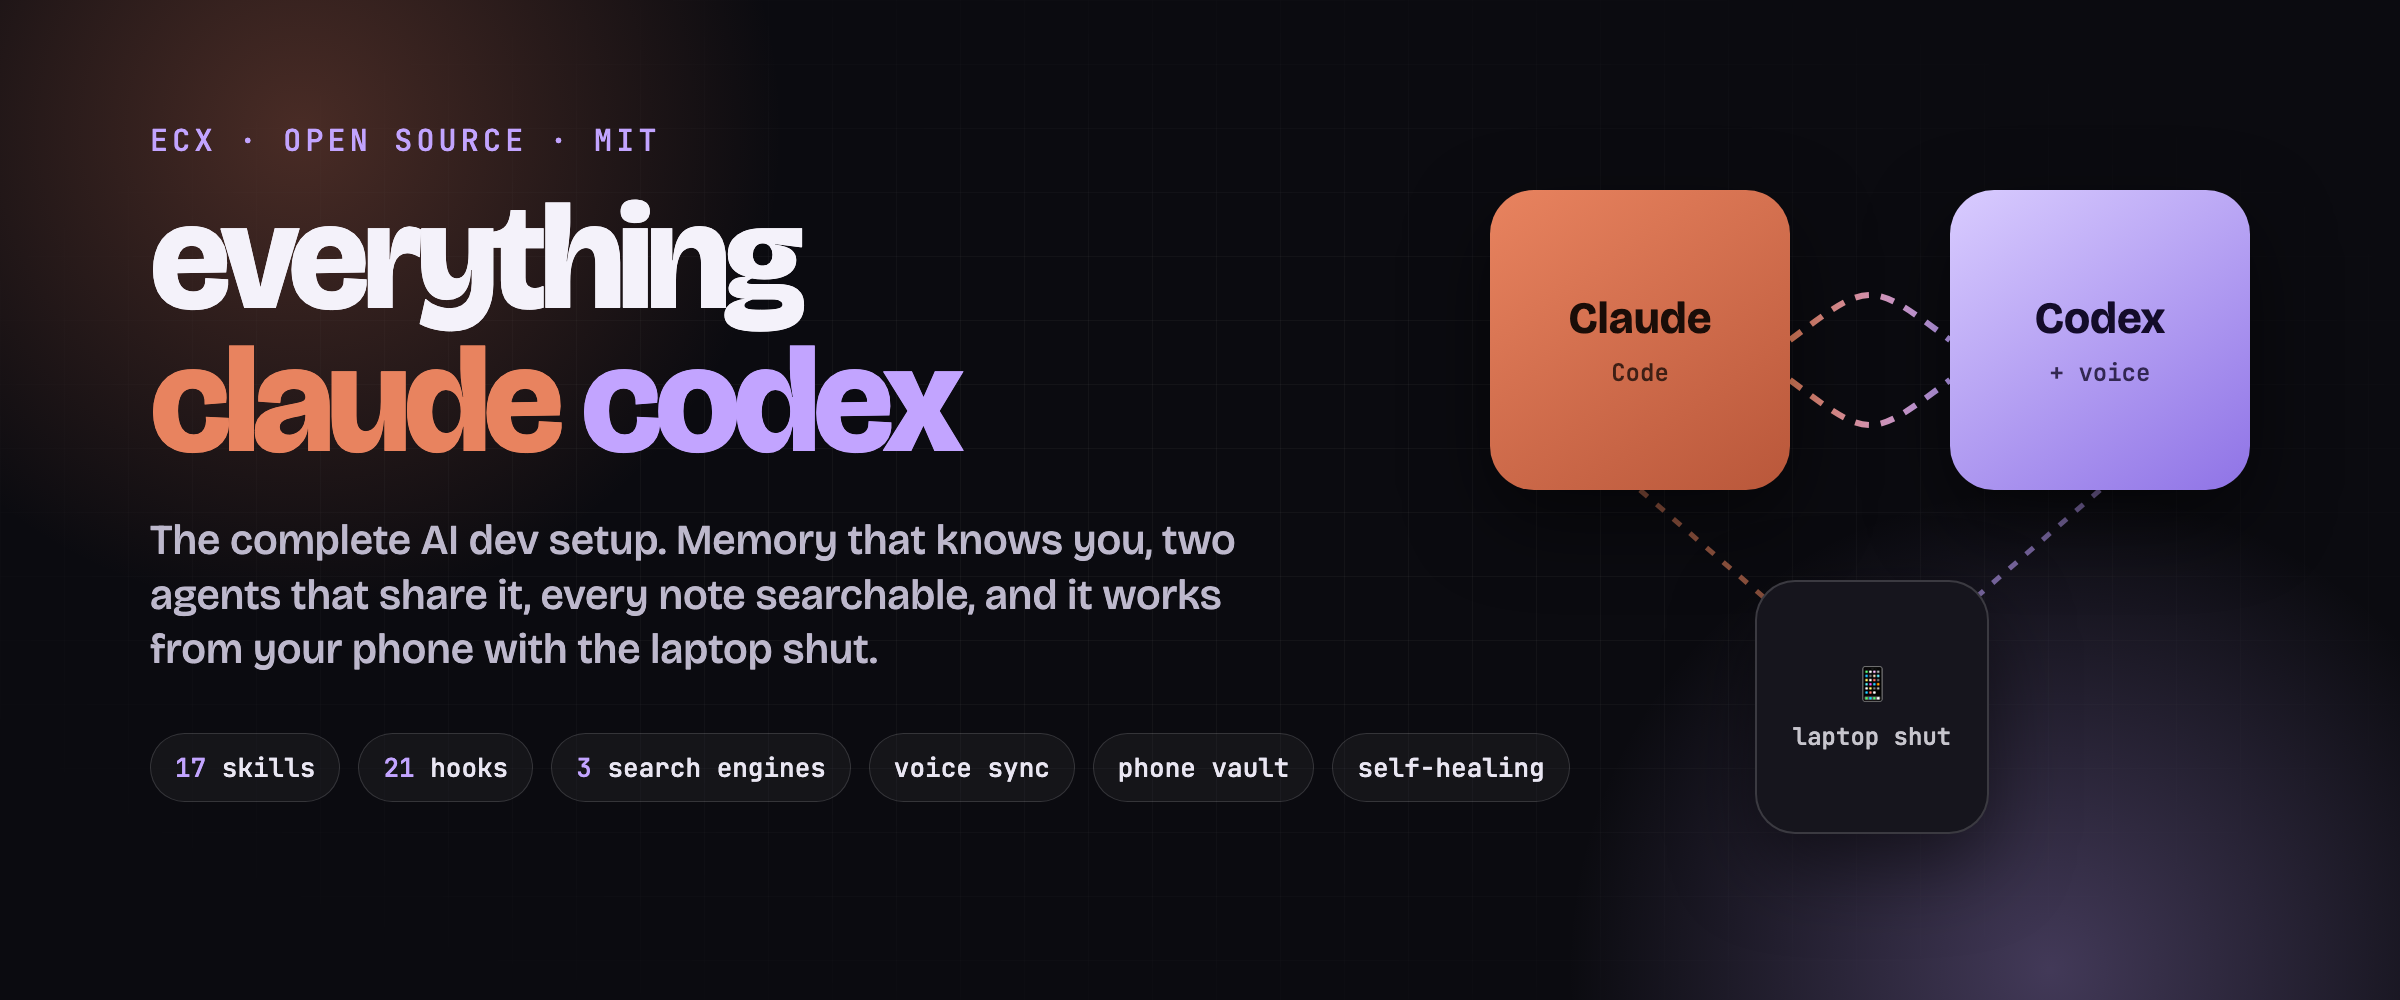
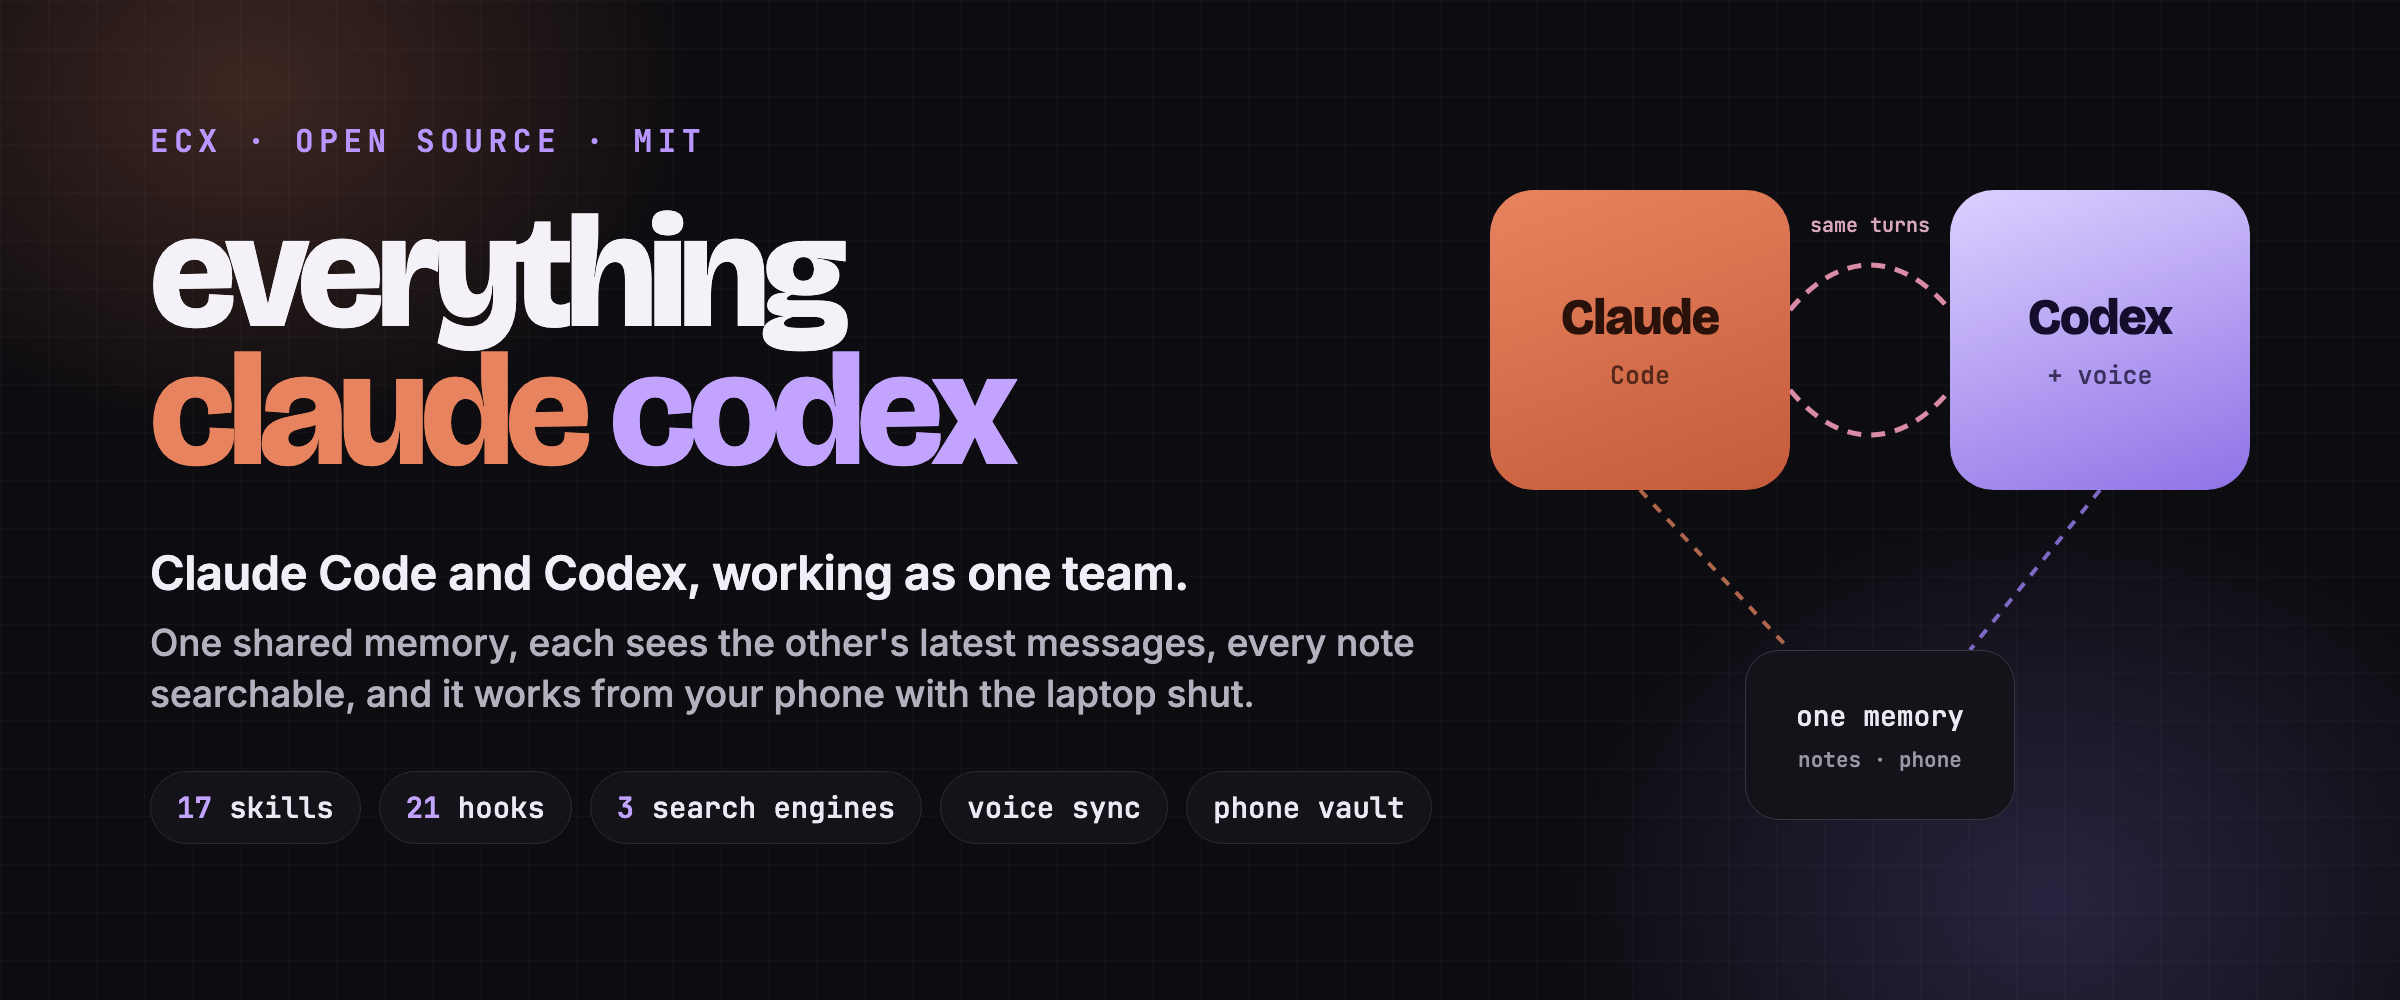
docs: new hero image with the one-team pitch, plus its HTML source

diff --git a/assets/hero.html b/assets/hero.html
@@ -1,0 +1,60 @@
+<!doctype html>
+<html><head><meta charset="utf-8">
+<link href="https://fonts.googleapis.com/css2?family=Bricolage+Grotesque:opsz,wght@12..96,800&family=Inter:wght@500;600&family=JetBrains+Mono:wght@500;600&display=block" rel="stylesheet">
+<style>
+*{margin:0;padding:0;box-sizing:border-box}
+html,body{width:2400px;height:1000px;overflow:hidden}
+body{background:#0d0c10;color:#eee;font-family:Inter,sans-serif;position:relative}
+.grid{position:absolute;inset:0;background-image:linear-gradient(rgba(255,255,255,.025) 1px,transparent 1px),linear-gradient(90deg,rgba(255,255,255,.025) 1px,transparent 1px);background-size:48px 48px}
+.glow1{position:absolute;left:-200px;top:-260px;width:900px;height:700px;background:radial-gradient(closest-side,rgba(232,131,95,.22),transparent)}
+.glow2{position:absolute;right:-150px;bottom:-300px;width:1000px;height:800px;background:radial-gradient(closest-side,rgba(143,115,230,.22),transparent)}
+.left{position:absolute;left:150px;top:120px;width:1420px}
+.kicker{font-family:'JetBrains Mono',monospace;font-weight:600;font-size:31px;letter-spacing:.18em;color:#b896ff}
+h1{font-family:'Bricolage Grotesque',sans-serif;font-weight:800;font-size:160px;line-height:.86;letter-spacing:-.045em;margin-top:44px}
+h1 .w{color:#f4f2f8;display:block}
+h1 .c{color:#e8835f}
+h1 .x{color:#c2a4ff}
+.lead{margin-top:62px;font-size:47px;line-height:1.3;font-weight:600;color:#f1eef7;letter-spacing:-.01em}
+.sub{margin-top:14px;font-size:37px;line-height:1.38;font-weight:500;color:#b4b0bd;max-width:1300px}
+.pills{display:flex;gap:18px;margin-top:52px}
+.pill{font-family:'JetBrains Mono',monospace;font-size:29px;font-weight:500;color:#ece9f2;padding:16px 26px;border:1.5px solid #2c2a33;border-radius:40px;background:#141319;white-space:nowrap}
+.pill b{color:#c2a4ff;font-weight:600}
+.diagram{position:absolute;left:1490px;top:150px;width:780px;height:720px}
+.box{position:absolute;width:300px;height:300px;border-radius:44px;display:flex;flex-direction:column;align-items:center;justify-content:center}
+.claude{left:0;top:40px;background:linear-gradient(160deg,#e8835f,#c45b3a);color:#2a120a}
+.codex{left:460px;top:40px;background:linear-gradient(160deg,#ddd0ff,#8f73e6);color:#140d2c}
+.box .t{font-family:'Bricolage Grotesque',sans-serif;font-weight:800;font-size:50px;letter-spacing:-.02em}
+.box .s{font-family:'JetBrains Mono',monospace;font-size:25px;margin-top:10px;opacity:.75}
+.mem{position:absolute;left:255px;top:500px;width:270px;height:170px;border-radius:34px;border:1.5px solid #3a3744;background:#141319;display:flex;flex-direction:column;align-items:center;justify-content:center;gap:12px}
+.mem .t{font-family:'JetBrains Mono',monospace;font-size:28px;color:#ece9f2}
+.mem .s{font-family:'JetBrains Mono',monospace;font-size:21px;color:#9a96a5}
+svg{position:absolute;inset:0}
+.lbl{position:absolute;left:300px;top:62px;width:160px;text-align:center;font-family:'JetBrains Mono',monospace;font-size:20px;color:#d7a7b9}
+</style></head><body>
+<div class="grid"></div><div class="glow1"></div><div class="glow2"></div>
+<div class="left">
+  <div class="kicker">ECX · OPEN SOURCE · MIT</div>
+  <h1><span class="w">everything</span><span class="c">claude</span> <span class="x">codex</span></h1>
+  <div class="lead">Claude Code and Codex, working as one team.</div>
+  <div class="sub">One shared memory, each sees the other's latest messages, every note searchable, and it works from your phone with the laptop shut.</div>
+  <div class="pills">
+    <div class="pill"><b>17</b> skills</div>
+    <div class="pill"><b>21</b> hooks</div>
+    <div class="pill"><b>3</b> search engines</div>
+    <div class="pill">voice sync</div>
+    <div class="pill">phone vault</div>
+  </div>
+</div>
+<div class="diagram">
+  <svg width="780" height="720">
+    <path d="M300 160 C 350 100, 410 100, 460 160" stroke="#d98ba6" stroke-width="5" stroke-dasharray="14 10" fill="none"/>
+    <path d="M300 240 C 350 300, 410 300, 460 240" stroke="#d98ba6" stroke-width="5" stroke-dasharray="14 10" fill="none"/>
+    <path d="M150 340 L 300 500" stroke="#b0664c" stroke-width="4" stroke-dasharray="10 10" fill="none"/>
+    <path d="M610 340 L 480 500" stroke="#7d68c4" stroke-width="4" stroke-dasharray="10 10" fill="none"/>
+  </svg>
+  <div class="lbl">same turns</div>
+  <div class="box claude"><div class="t">Claude</div><div class="s">Code</div></div>
+  <div class="box codex"><div class="t">Codex</div><div class="s">+ voice</div></div>
+  <div class="mem"><div class="t">one memory</div><div class="s">notes · phone</div></div>
+</div>
+</body></html>
